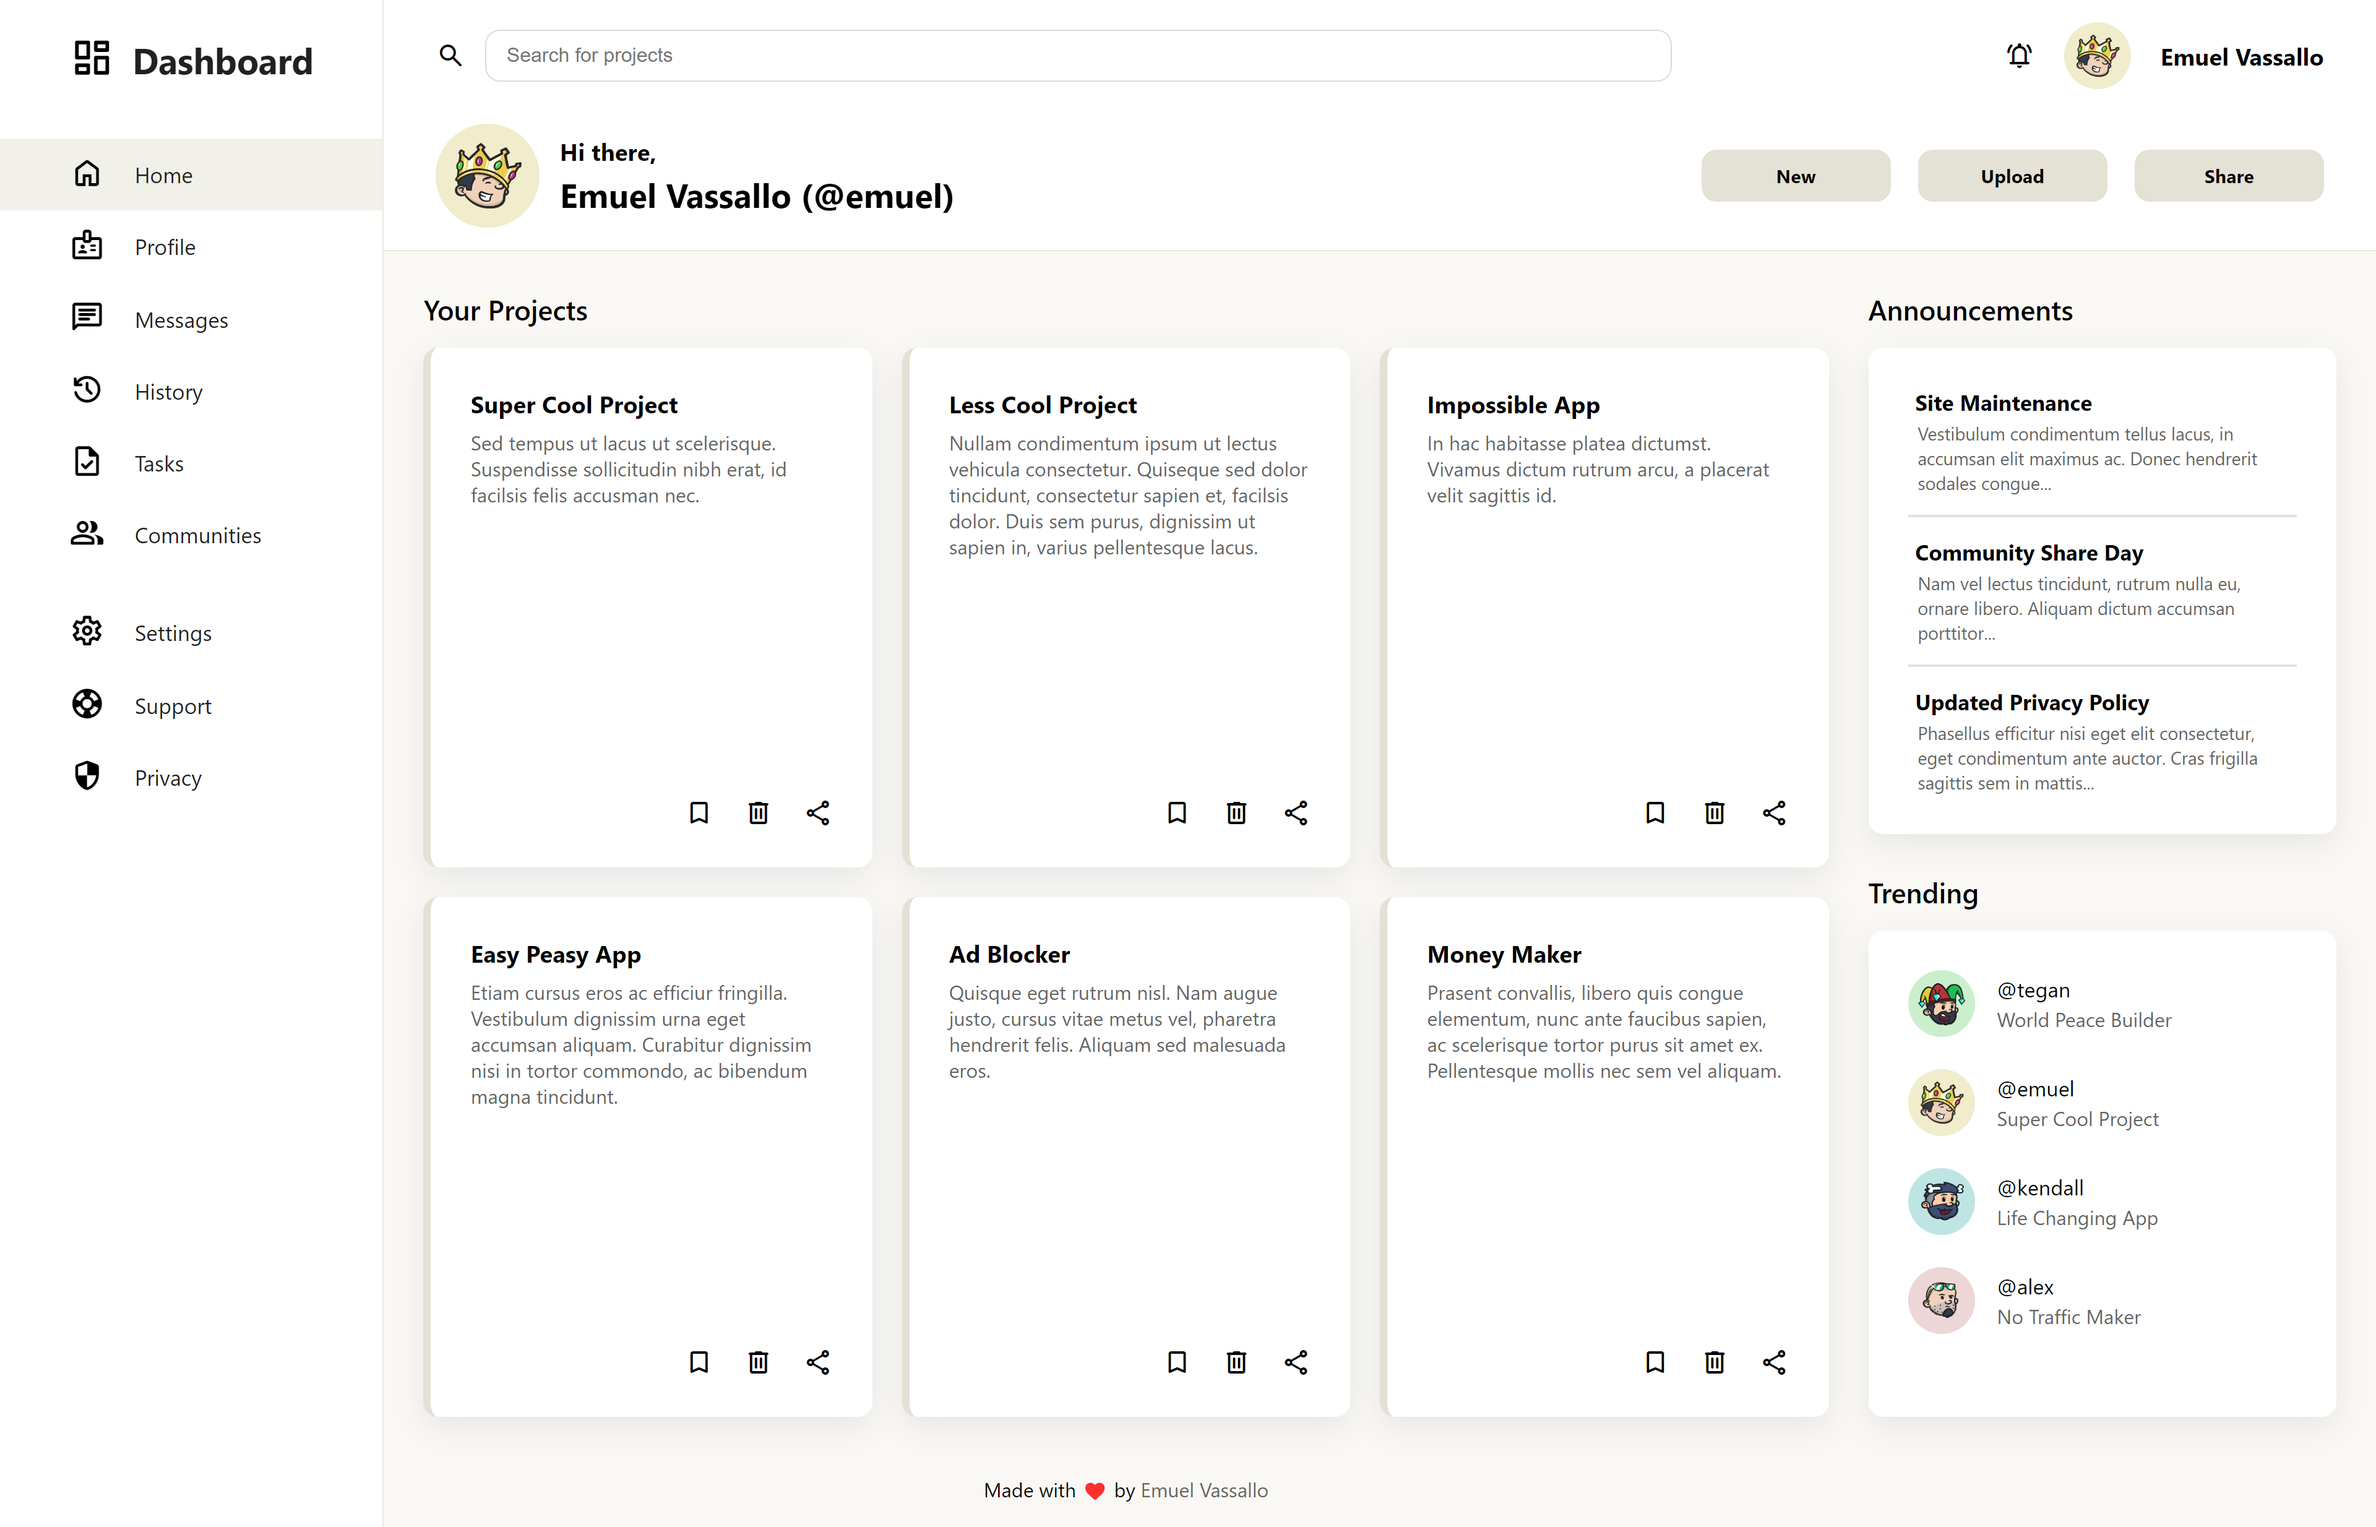
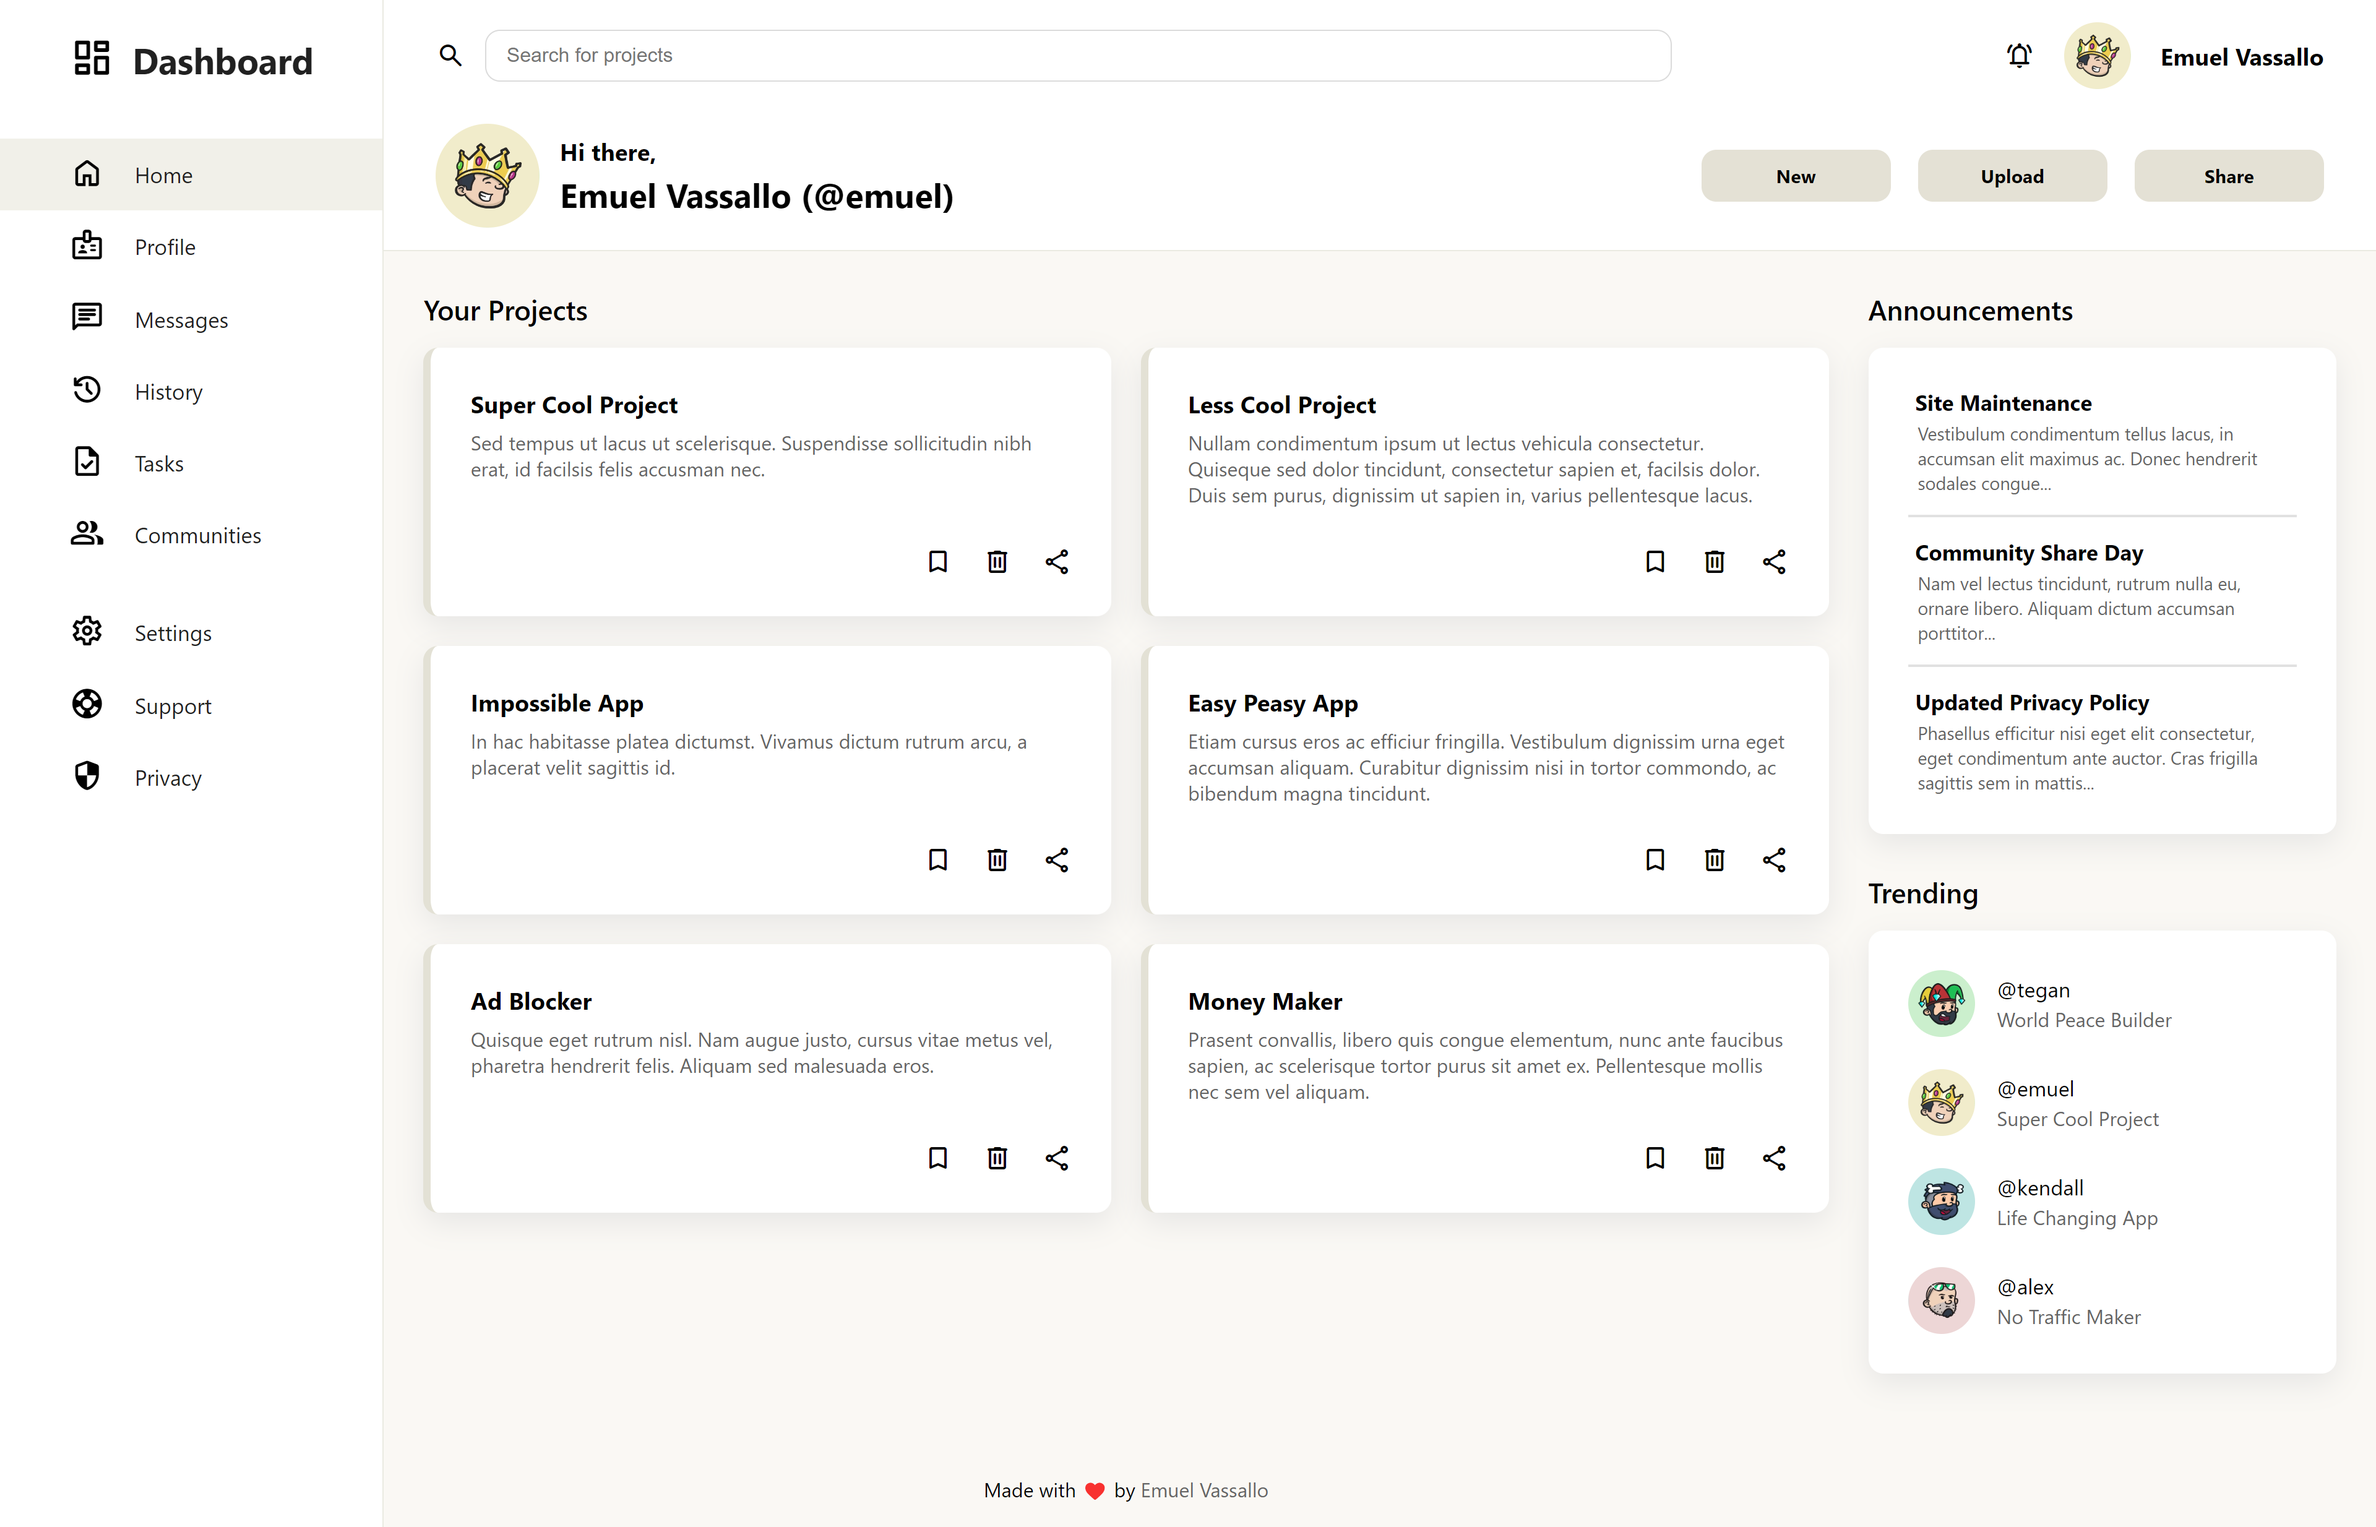
stop projects section from filling up all space

diff --git a/style.css b/style.css
@@ -266,15 +266,12 @@ main {
 .projects {
   grid-row: 1 / 3;
   grid-column: 1 / 2;
-  display: flex;
-  flex-direction: column;
 }
 
 .project-card-container {
   display: grid;
-  grid-template-columns: repeat(auto-fit, minmax(350px, 1fr));
+  grid-template-columns: repeat(auto-fit, minmax(390px, 1fr));
   gap: 24px;
-  flex: 1;
 }
 
 .project-card {
@@ -338,7 +335,7 @@ main {
   box-shadow: var(--card-box-shadow);
   border-radius: var(--card-border-radius);
   padding: 32px;
-  flex: 1;
+  flex-grow: 1;
 }
 
 .announcements > div > div:not(:first-child) > p:first-child {
@@ -368,8 +365,6 @@ main {
 .trending {
   grid-row: 2;
   grid-column: 2;
-  display: flex;
-  flex-direction: column;
 }
 
 .trending > div {
@@ -380,7 +375,6 @@ main {
   border-radius: var(--card-border-radius);
   padding: 32px;
   gap: 26px;
-  flex: 1;
 }
 
 .trending > div > div {
